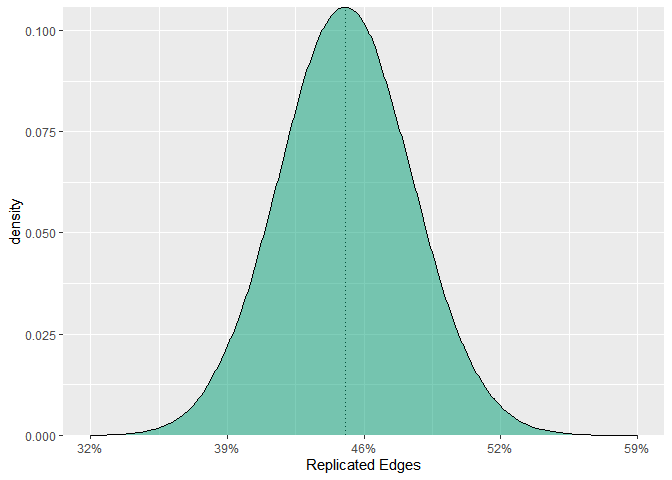
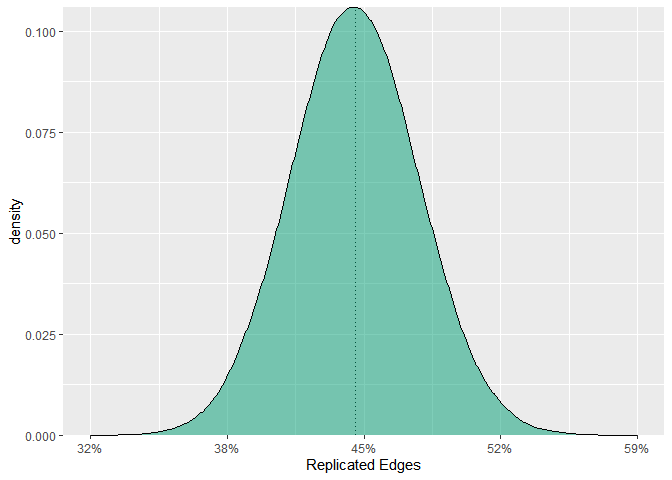
update

diff --git a/README.md b/README.md
@@ -128,18 +128,19 @@ fit <- ggm_inference(Y, boot = TRUE,
                      method = "spearman", 
                      B = 100, progress = FALSE)
 #>   |                                                                              |                                                                      |   0%  |                                                                              |=                                                                     |   1%  |                                                                              |=                                                                     |   2%  |                                                                              |==                                                                    |   3%  |                                                                              |===                                                                   |   4%  |                                                                              |====                                                                  |   5%  |                                                                              |====                                                                  |   6%  |                                                                              |=====                                                                 |   7%  |                                                                              |======                                                                |   8%  |                                                                              |======                                                                |   9%  |                                                                              |=======                                                               |  10%  |                                                                              |========                                                              |  11%  |                                                                              |=========                                                             |  12%  |                                                                              |=========                                                             |  13%  |                                                                              |==========                                                            |  14%  |                                                                              |===========                                                           |  15%  |                                                                              |===========                                                           |  16%  |                                                                              |============                                                          |  17%  |                                                                              |=============                                                         |  18%  |                                                                              |==============                                                        |  19%  |                                                                              |==============                                                        |  20%  |                                                                              |===============                                                       |  21%  |                                                                              |================                                                      |  22%  |                                                                              |================                                                      |  23%  |                                                                              |=================                                                     |  24%  |                                                                              |==================                                                    |  26%  |                                                                              |===================                                                   |  27%  |                                                                              |===================                                                   |  28%  |                                                                              |====================                                                  |  29%  |                                                                              |=====================                                                 |  30%  |                                                                              |=====================                                                 |  31%  |                                                                              |======================                                                |  32%  |                                                                              |=======================                                               |  33%  |                                                                              |========================                                              |  34%  |                                                                              |========================                                              |  35%  |                                                                              |=========================                                             |  36%  |                                                                              |==========================                                            |  37%  |                                                                              |==========================                                            |  38%  |                                                                              |===========================                                           |  39%  |                                                                              |============================                                          |  40%  |                                                                              |=============================                                         |  41%  |                                                                              |=============================                                         |  42%  |                                                                              |==============================                                        |  43%  |                                                                              |===============================                                       |  44%  |                                                                              |===============================                                       |  45%  |                                                                              |================================                                      |  46%  |                                                                              |=================================                                     |  47%  |                                                                              |==================================                                    |  48%  |                                                                              |==================================                                    |  49%  |                                                                              |===================================                                   |  50%  |                                                                              |====================================                                  |  51%  |                                                                              |====================================                                  |  52%  |                                                                              |=====================================                                 |  53%  |                                                                              |======================================                                |  54%  |                                                                              |=======================================                               |  55%  |                                                                              |=======================================                               |  56%  |                                                                              |========================================                              |  57%  |                                                                              |=========================================                             |  58%  |                                                                              |=========================================                             |  59%  |                                                                              |==========================================                            |  60%  |                                                                              |===========================================                           |  61%  |                                                                              |============================================                          |  62%  |                                                                              |============================================                          |  63%  |                                                                              |=============================================                         |  64%  |                                                                              |==============================================                        |  65%  |                                                                              |==============================================                        |  66%  |                                                                              |===============================================                       |  67%  |                                                                              |================================================                      |  68%  |                                                                              |=================================================                     |  69%  |                                                                              |=================================================                     |  70%  |                                                                              |==================================================                    |  71%  |                                                                              |===================================================                   |  72%  |                                                                              |===================================================                   |  73%  |                                                                              |====================================================                  |  74%  |                                                                              |=====================================================                 |  76%  |                                                                              |======================================================                |  77%  |                                                                              |======================================================                |  78%  |                                                                              |=======================================================               |  79%  |                                                                              |========================================================              |  80%  |                                                                              |========================================================              |  81%  |                                                                              |=========================================================             |  82%  |                                                                              |==========================================================            |  83%  |                                                                              |===========================================================           |  84%  |                                                                              |===========================================================           |  85%  |                                                                              |============================================================          |  86%  |                                                                              |=============================================================         |  87%  |                                                                              |=============================================================         |  88%  |                                                                              |==============================================================        |  89%  |                                                                              |===============================================================       |  90%  |                                                                              |================================================================      |  91%  |                                                                              |================================================================      |  92%  |                                                                              |=================================================================     |  93%  |                                                                              |==================================================================    |  94%  |                                                                              |==================================================================    |  95%  |                                                                              |===================================================================   |  96%  |                                                                              |====================================================================  |  97%  |                                                                              |===================================================================== |  98%  |                                                                              |===================================================================== |  99%  |                                                                              |======================================================================| 100%
+
 confint(fit)
-#>              2.5%       97.5%
-#>  [1,] -0.29380180 -0.22415592
-#>  [2,] -0.15498846 -0.07499404
-#>  [3,]  0.25654243  0.32874341
-#>  [4,] -0.05117957  0.03268668
-#>  [5,]  0.13007872  0.20381208
-#>  [6,]  0.13123834  0.19810584
-#>  [7,] -0.06612277  0.01012129
-#>  [8,]  0.11232522  0.19226783
-#>  [9,]  0.33391165  0.40697628
-#> [10,]  0.08877231  0.15808309
+#>              2.5%        97.5%
+#>  [1,] -0.28723831 -0.224803737
+#>  [2,] -0.14769894 -0.073096544
+#>  [3,]  0.25182961  0.326881249
+#>  [4,] -0.03975886  0.036164730
+#>  [5,]  0.12354084  0.207451311
+#>  [6,]  0.12770053  0.197564700
+#>  [7,] -0.06731603  0.006954667
+#>  [8,]  0.11145243  0.191037559
+#>  [9,]  0.34728400  0.408276734
+#> [10,]  0.08736271  0.158184525
 ```
 
 These can then be plotted with, say, **ggplot2** (left to the user).
@@ -168,7 +169,7 @@ fit
 #> 4  0.04
 #> 5  1.00
 #> 6  1.00
-#> 7  0.33
+#> 7  0.39
 #> 8  1.00
 #> 9  1.00
 #> 10 1.00
@@ -237,12 +238,12 @@ be replicated only 5 % of the time.
 ENR can also be plotted
 
 ``` r
-plot(fit_enr)
+plot_enr(fit_enr)
 ```
 
 <img src="man/figures/README-unnamed-chunk-8-1.png" width="75%" />
 
-### Intution
+### Intuition
 
 Here is the basic idea of ENR
 
@@ -298,15 +299,17 @@ cbind.data.frame(
 #> 2       1.000    1.000
 #> 3       1.000    1.000
 #> 4       1.000    1.000
-#> 5       0.892    0.912
-#> 6       0.046    0.052
+#> 5       0.902    0.912
+#> 6       0.049    0.052
 #> 7       0.000    0.000
 #> 8       0.000    0.000
 #> 9       0.000    0.000
 #> 10      0.000    0.000
+
 # average replicability (simulation)
 mean(R / length(index))
-#> [1] 0.4462222
+#> [1] 0.4473333
+
 # average replicability (analytic)
 fit_enr$ave_pwr
 #> [1] 0.4485122
@@ -325,7 +328,7 @@ Y <- ptsd
 fit <- ggm_inference(Y, boot = FALSE)
 
 # get info for plotting
-plot(get_graph(fit), edge_magnify = 5)
+plot(fit, edge_magnify = 5)
 #> Warning: `guides(<scale> = FALSE)` is deprecated. Please use `guides(<scale> =
 #> "none")` instead.
 ```
